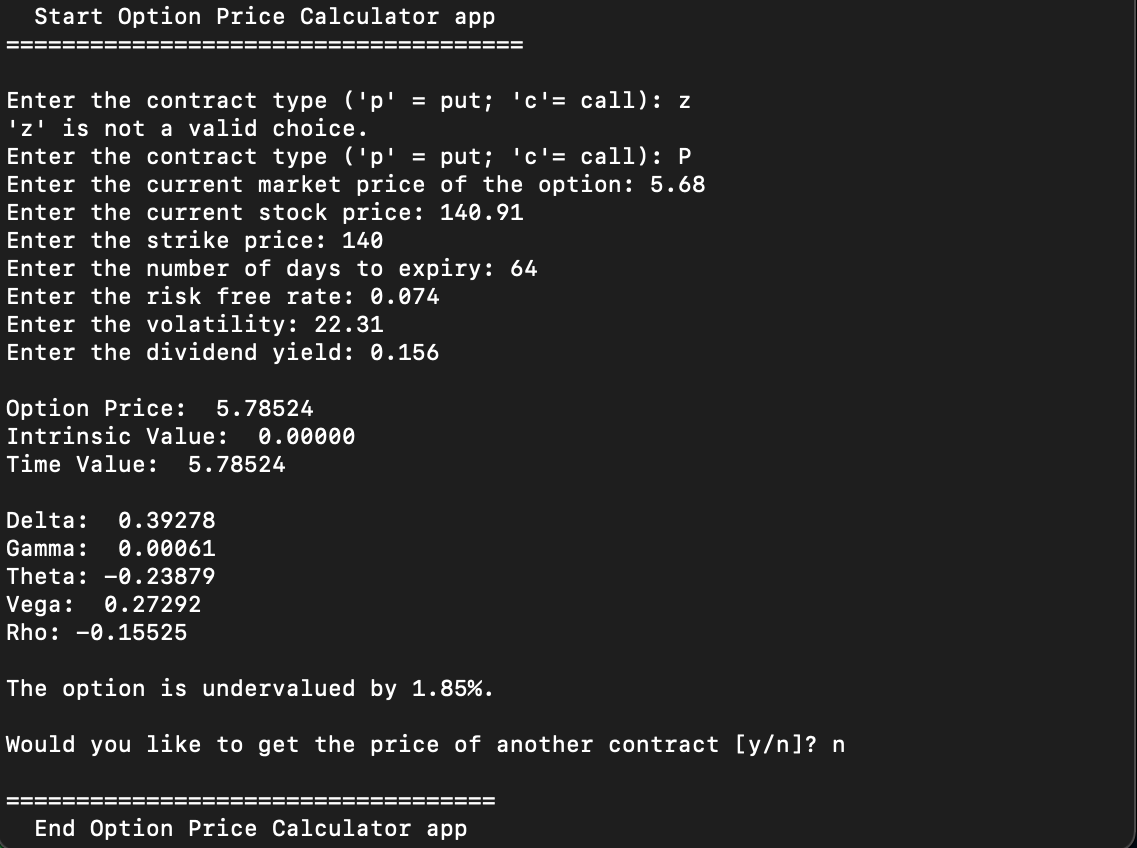
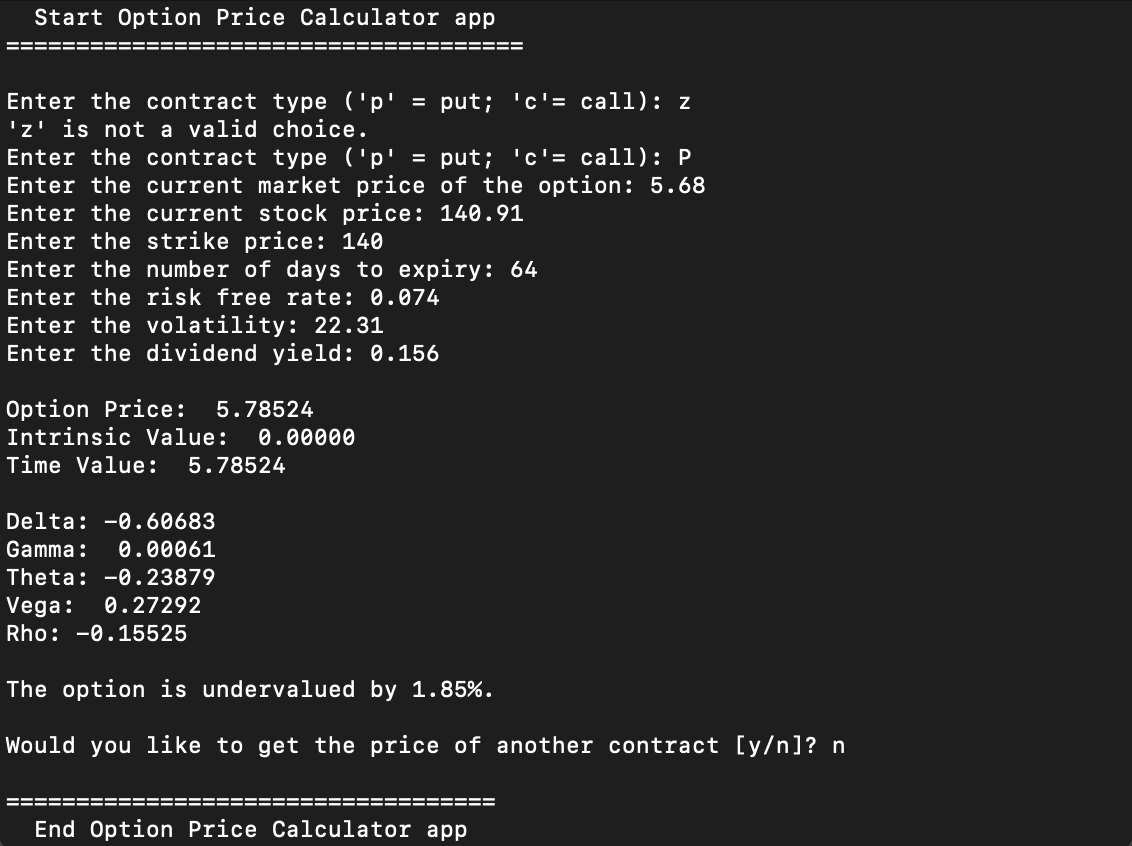
Fix main, options and changed sample output images

diff --git a/options/options.py b/options/options.py
@@ -56,7 +56,7 @@ class Options:
         Returns the option's theoritical price, intrinsic value and time value
         and the greeks of the option as a dictionary.
         """
-        d1 = ((np.log(self.stock_price/self.strike) + (self.rf_rate - self.div + (self.vol**2)/2)))/(self.vol * np.sqrt(self.exp))
+        d1 = (np.log(self.stock_price/self.strike) + (self.rf_rate - self.div + (pow(self.vol,2))/2))/(self.vol * np.sqrt(self.exp))
         d2 = d1 - self.vol * np.sqrt(self.exp)
 
         A = self.stock_price * np.exp(-self.div * self.exp)
@@ -90,7 +90,7 @@ class Options:
             rho = (self.strike * self.exp * np.exp(-self.rf_rate*self.exp) * N_d2) / 100
 
         else:
-            delta = N_d1 * np.exp(-self.div * self.exp)
+            delta = (N_d1 - 1) * np.exp(-self.div * self.exp)
             theta = (-(((self.stock_price * self.vol)/(2*np.sqrt(self.exp))) * ((np.exp(-pow(d1, 2)/2))/(2*np.pi) ))
                      - (self.rf_rate*self.strike*np.exp(-self.exp*self.rf_rate) * N_d2 + self.stock_price * np.exp(-self.div*self.exp) * N_d1)) / 252
             rho = -(self.strike * self.exp * np.exp(-self.rf_rate*self.exp) * N_d2) / 100
